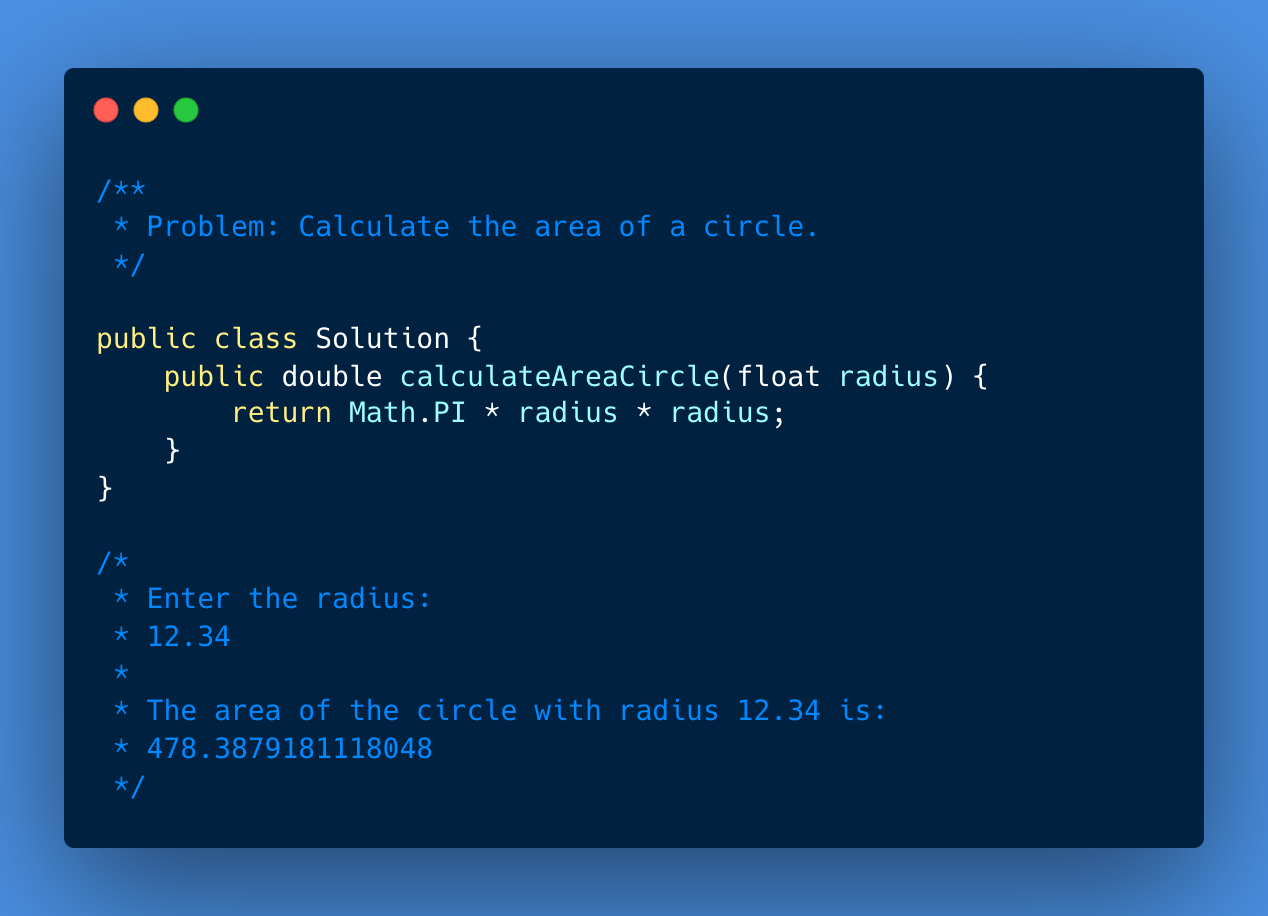
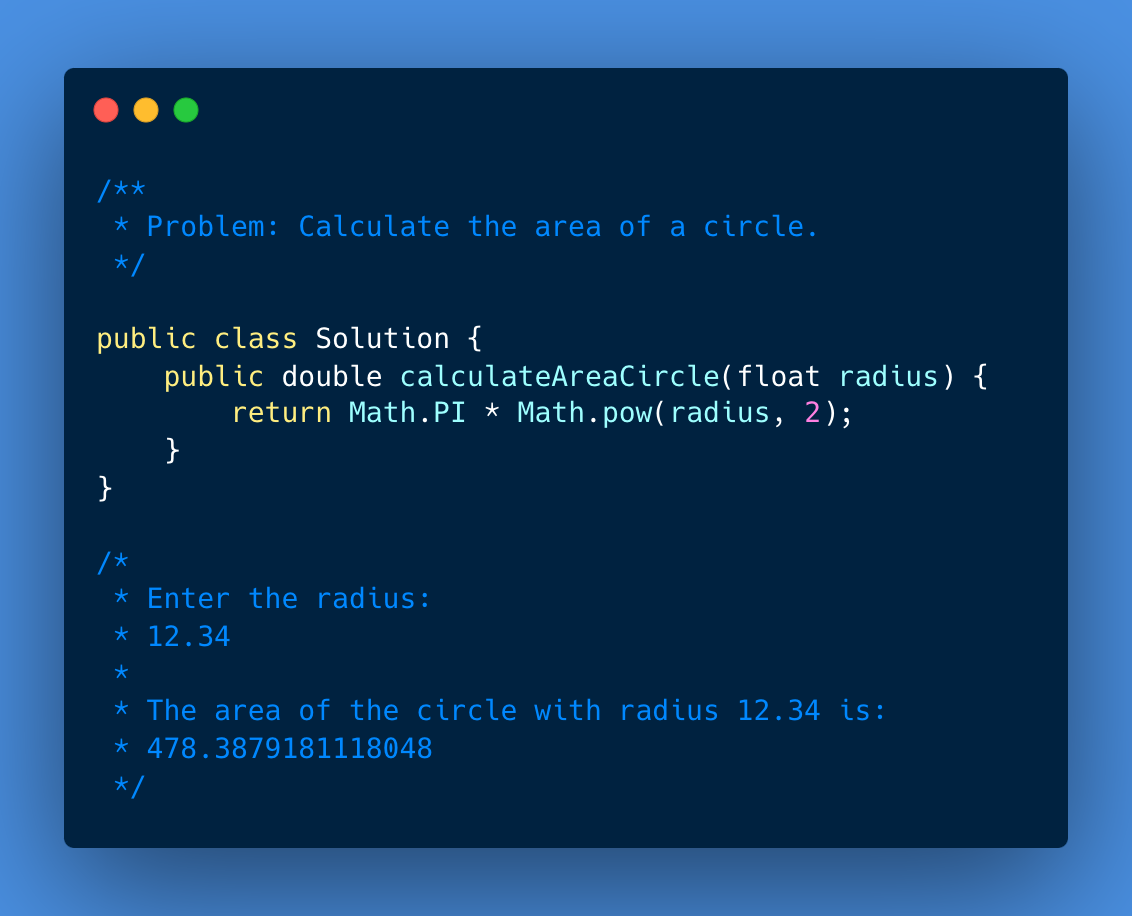
Update area of circle logic

diff --git a/003-area-circle/001-solution/Solution.java b/003-area-circle/001-solution/Solution.java
@@ -4,7 +4,7 @@
 
 public class Solution {
     public double calculateAreaCircle(float radius) {
-        return Math.PI * radius * radius;
+        return Math.PI * Math.pow(radius, 2);
     }
 }
 
